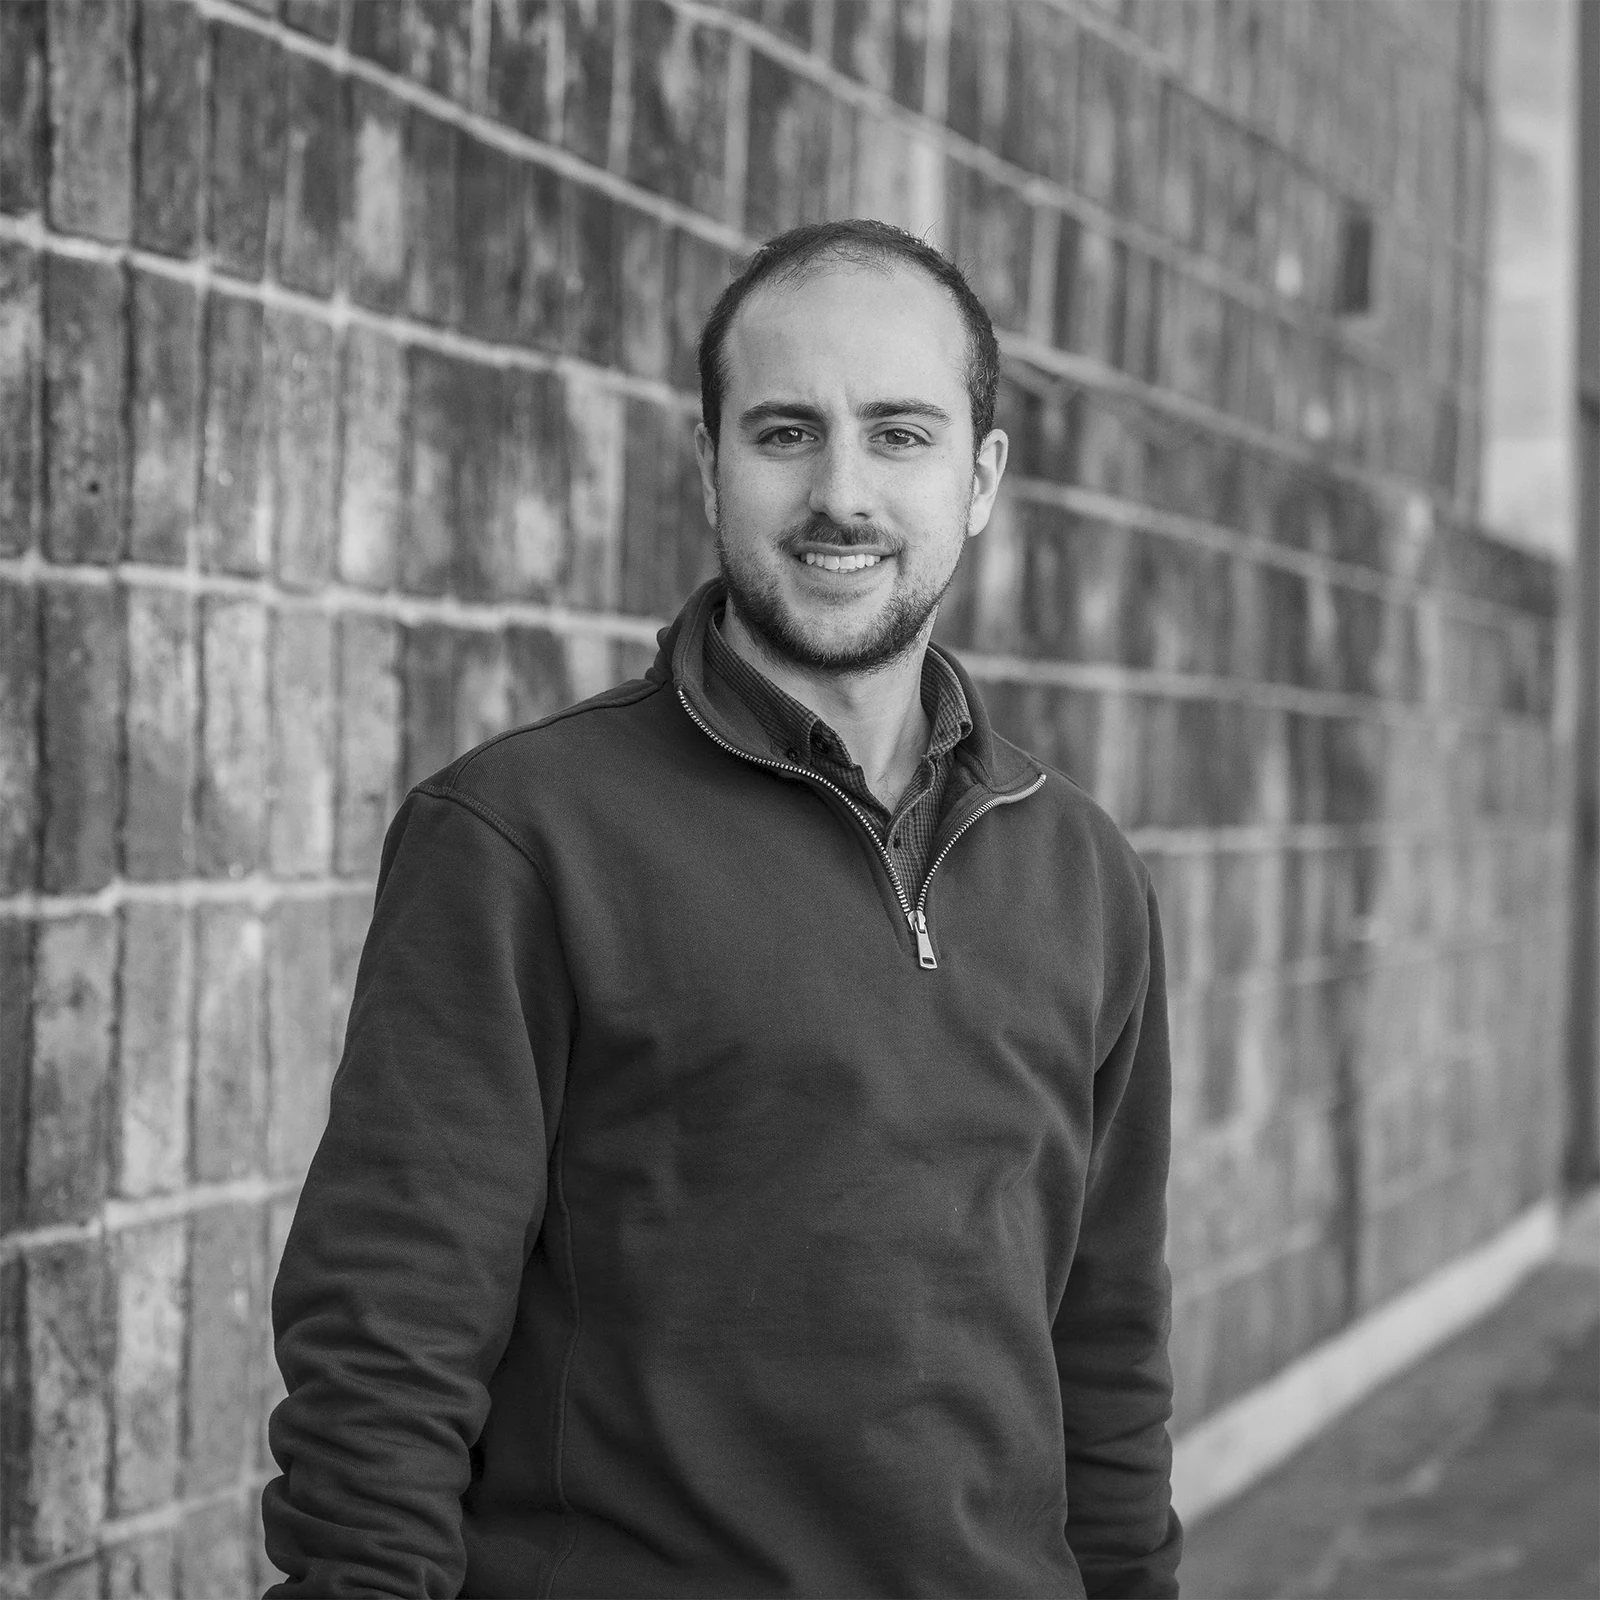
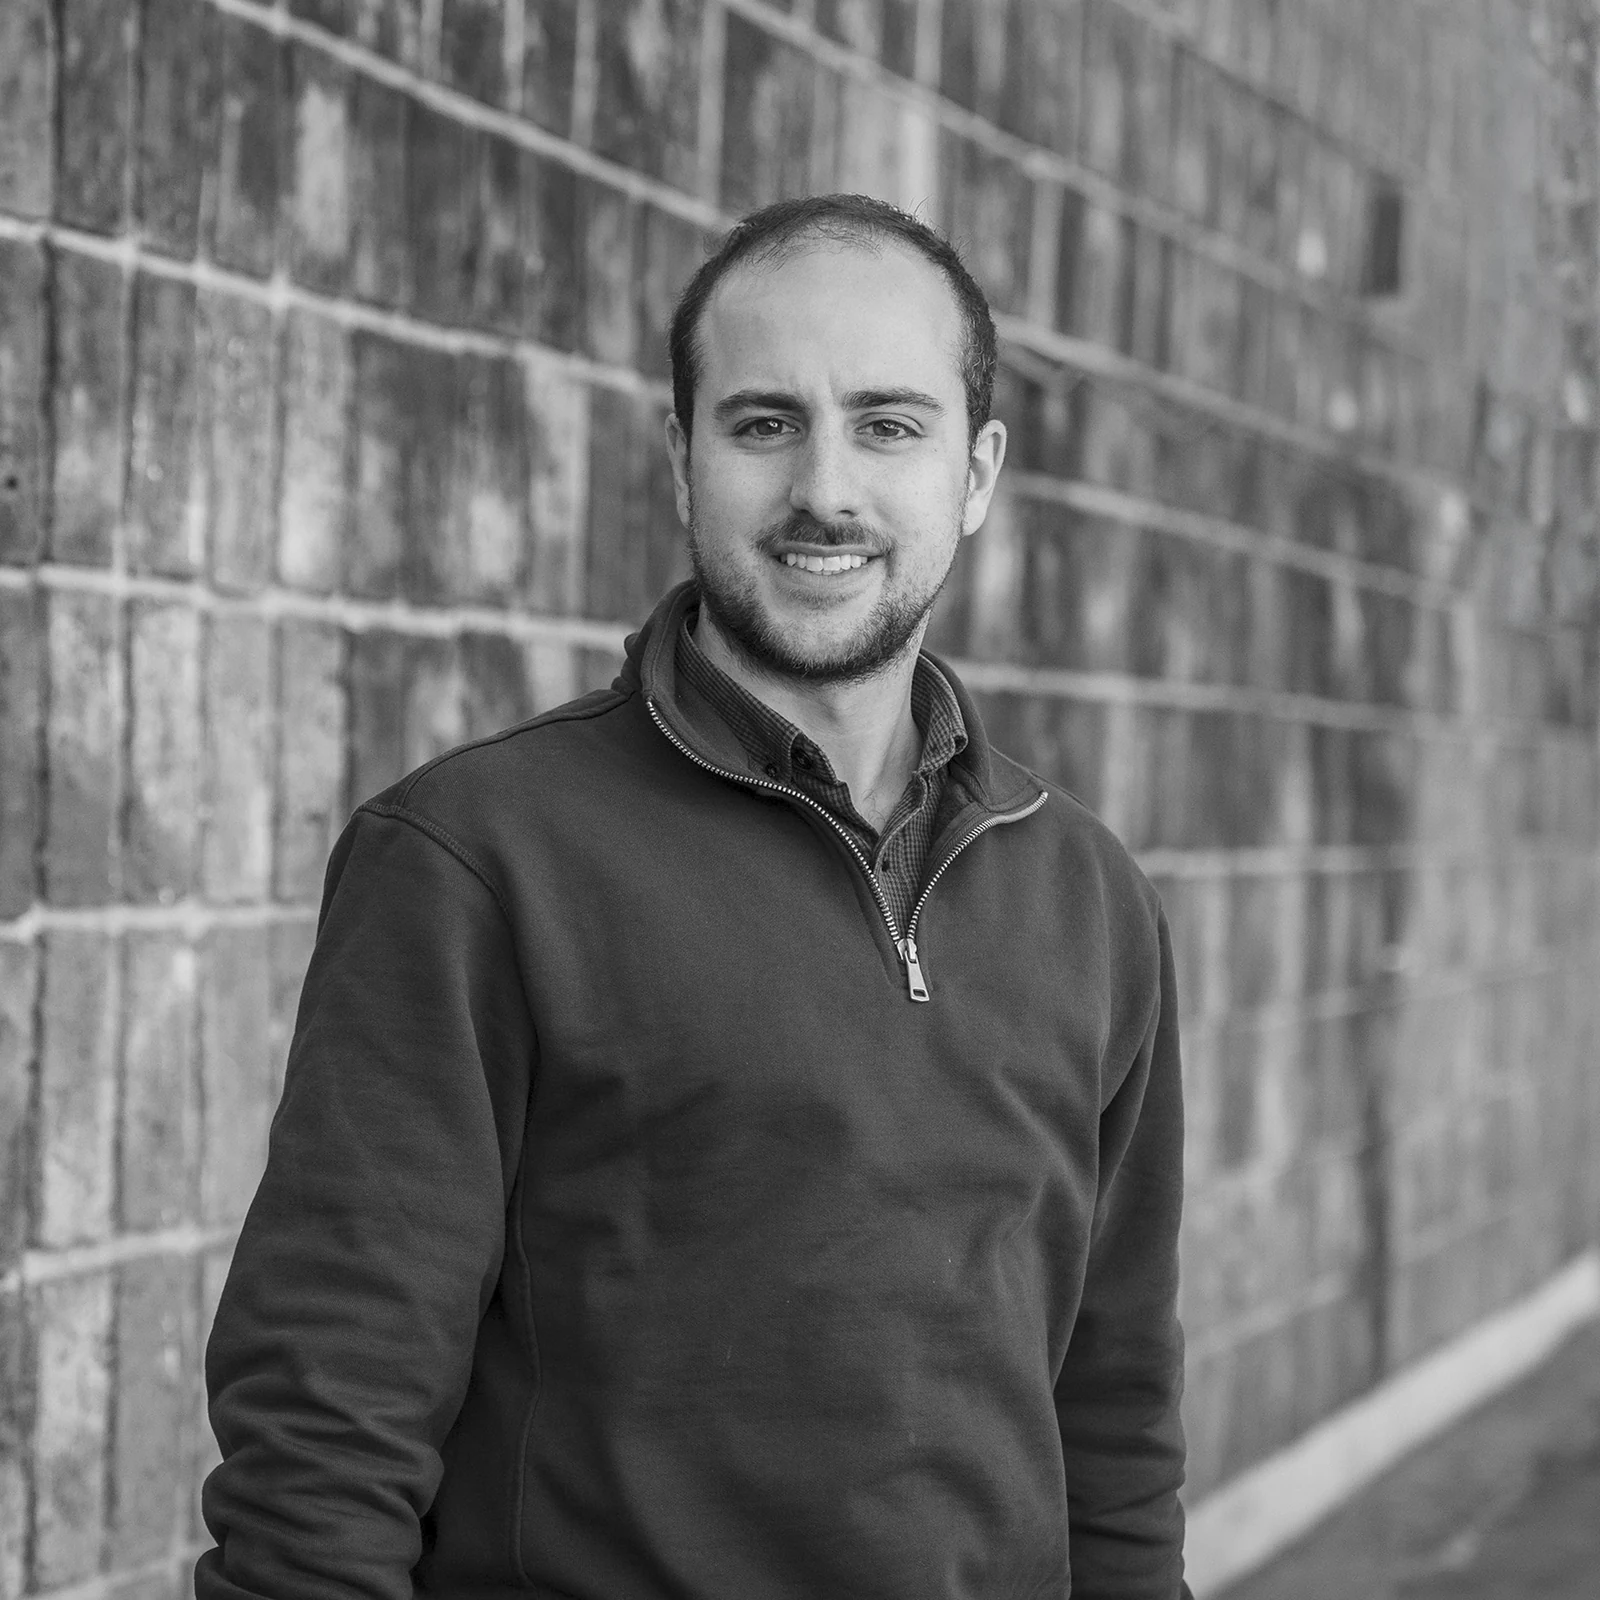
Actualización / Foto juan pablo

diff --git a/proyecto-colegio-maturana.html b/proyecto-colegio-maturana.html
@@ -9,7 +9,7 @@
   <title>Colegio Maturana — NUDO Arquitectura</title>
   <link rel="canonical" href="https://nudoarq.uy/proyecto-colegio-maturana.html" />
   <link rel="icon" type="image/png" href="/img/faivcon%20192x192.png" />
-  <link rel="stylesheet" href="styles.css?v=20260810-directores-49" />
+  <link rel="stylesheet" href="styles.css?v=20260810-juan-pablo-50" />
   <script type="application/ld+json">{
   "@context": "https://schema.org",
   "@type": "LocalBusiness",
@@ -45,7 +45,7 @@
   "priceRange": "$$",
   "description": "Estudio de arquitectura en Uruguay especializado en proyecto arquitectónico, documentación, dirección y gestión de obra."
 }</script>
-  <script type="module" src="src/main.js?v=20260810-directores-49"></script>
+  <script type="module" src="src/main.js?v=20260810-juan-pablo-50"></script>
 </head>
 <body data-page="project" data-project-slug="colegio-maturana">
   <div id="app">

diff --git a/proyecto-punta-espinillo.html b/proyecto-punta-espinillo.html
@@ -9,7 +9,7 @@
   <title>Punta Espinillo — NUDO Arquitectura</title>
   <link rel="canonical" href="https://nudoarq.uy/proyecto-punta-espinillo.html" />
   <link rel="icon" type="image/png" href="/img/faivcon%20192x192.png" />
-  <link rel="stylesheet" href="styles.css?v=20260810-directores-49" />
+  <link rel="stylesheet" href="styles.css?v=20260810-juan-pablo-50" />
   <script type="application/ld+json">{
   "@context": "https://schema.org",
   "@type": "LocalBusiness",
@@ -45,7 +45,7 @@
   "priceRange": "$$",
   "description": "Estudio de arquitectura en Uruguay especializado en proyecto arquitectónico, documentación, dirección y gestión de obra."
 }</script>
-  <script type="module" src="src/main.js?v=20260810-directores-49"></script>
+  <script type="module" src="src/main.js?v=20260810-juan-pablo-50"></script>
 </head>
 <body data-page="project" data-project-slug="punta-espinillo">
   <div id="app">

diff --git a/proyecto-reforma-nelson.html b/proyecto-reforma-nelson.html
@@ -9,7 +9,7 @@
   <title>Reforma Nelson — NUDO Arquitectura</title>
   <link rel="canonical" href="https://nudoarq.uy/proyecto-reforma-nelson.html" />
   <link rel="icon" type="image/png" href="/img/faivcon%20192x192.png" />
-  <link rel="stylesheet" href="styles.css?v=20260810-directores-49" />
+  <link rel="stylesheet" href="styles.css?v=20260810-juan-pablo-50" />
   <script type="application/ld+json">{
   "@context": "https://schema.org",
   "@type": "LocalBusiness",
@@ -45,7 +45,7 @@
   "priceRange": "$$",
   "description": "Estudio de arquitectura en Uruguay especializado en proyecto arquitectónico, documentación, dirección y gestión de obra."
 }</script>
-  <script type="module" src="src/main.js?v=20260810-directores-49"></script>
+  <script type="module" src="src/main.js?v=20260810-juan-pablo-50"></script>
 </head>
 <body data-page="project" data-project-slug="reforma-nelson">
   <div id="app">

diff --git a/proyecto-ingreso-berro.html b/proyecto-ingreso-berro.html
@@ -9,7 +9,7 @@
   <title>Ingreso Berro — NUDO Arquitectura</title>
   <link rel="canonical" href="https://nudoarq.uy/proyecto-ingreso-berro.html" />
   <link rel="icon" type="image/png" href="/img/faivcon%20192x192.png" />
-  <link rel="stylesheet" href="styles.css?v=20260810-directores-49" />
+  <link rel="stylesheet" href="styles.css?v=20260810-juan-pablo-50" />
   <script type="application/ld+json">{
   "@context": "https://schema.org",
   "@type": "LocalBusiness",
@@ -45,7 +45,7 @@
   "priceRange": "$$",
   "description": "Estudio de arquitectura en Uruguay especializado en proyecto arquitectónico, documentación, dirección y gestión de obra."
 }</script>
-  <script type="module" src="src/main.js?v=20260810-directores-49"></script>
+  <script type="module" src="src/main.js?v=20260810-juan-pablo-50"></script>
 </head>
 <body data-page="project" data-project-slug="ingreso-berro">
   <div id="app">

diff --git a/proyecto-classic-cars.html b/proyecto-classic-cars.html
@@ -9,7 +9,7 @@
   <title>Classic Cars — NUDO Arquitectura</title>
   <link rel="canonical" href="https://nudoarq.uy/proyecto-classic-cars.html" />
   <link rel="icon" type="image/png" href="/img/faivcon%20192x192.png" />
-  <link rel="stylesheet" href="styles.css?v=20260810-directores-49" />
+  <link rel="stylesheet" href="styles.css?v=20260810-juan-pablo-50" />
   <script type="application/ld+json">{
   "@context": "https://schema.org",
   "@type": "LocalBusiness",
@@ -45,7 +45,7 @@
   "priceRange": "$$",
   "description": "Estudio de arquitectura en Uruguay especializado en proyecto arquitectónico, documentación, dirección y gestión de obra."
 }</script>
-  <script type="module" src="src/main.js?v=20260810-directores-49"></script>
+  <script type="module" src="src/main.js?v=20260810-juan-pablo-50"></script>
 </head>
 <body data-page="project" data-project-slug="classic-cars">
   <div id="app">

diff --git a/proyecto-delta-riego.html b/proyecto-delta-riego.html
@@ -9,7 +9,7 @@
   <title>Delta Riego — NUDO Arquitectura</title>
   <link rel="canonical" href="https://nudoarq.uy/proyecto-delta-riego.html" />
   <link rel="icon" type="image/png" href="/img/faivcon%20192x192.png" />
-  <link rel="stylesheet" href="styles.css?v=20260810-directores-49" />
+  <link rel="stylesheet" href="styles.css?v=20260810-juan-pablo-50" />
   <script type="application/ld+json">{
   "@context": "https://schema.org",
   "@type": "LocalBusiness",
@@ -45,7 +45,7 @@
   "priceRange": "$$",
   "description": "Estudio de arquitectura en Uruguay especializado en proyecto arquitectónico, documentación, dirección y gestión de obra."
 }</script>
-  <script type="module" src="src/main.js?v=20260810-directores-49"></script>
+  <script type="module" src="src/main.js?v=20260810-juan-pablo-50"></script>
 </head>
 <body data-page="project" data-project-slug="delta-riego">
   <div id="app">

diff --git a/proyecto-alfalider.html b/proyecto-alfalider.html
@@ -9,7 +9,7 @@
   <title>Alfalider — NUDO Arquitectura</title>
   <link rel="canonical" href="https://nudoarq.uy/proyecto-alfalider.html" />
   <link rel="icon" type="image/png" href="/img/faivcon%20192x192.png" />
-  <link rel="stylesheet" href="styles.css?v=20260810-directores-49" />
+  <link rel="stylesheet" href="styles.css?v=20260810-juan-pablo-50" />
   <script type="application/ld+json">{
   "@context": "https://schema.org",
   "@type": "LocalBusiness",
@@ -45,7 +45,7 @@
   "priceRange": "$$",
   "description": "Estudio de arquitectura en Uruguay especializado en proyecto arquitectónico, documentación, dirección y gestión de obra."
 }</script>
-  <script type="module" src="src/main.js?v=20260810-directores-49"></script>
+  <script type="module" src="src/main.js?v=20260810-juan-pablo-50"></script>
 </head>
 <body data-page="project" data-project-slug="alfalider">
   <div id="app">

diff --git a/proyecto-araruama.html b/proyecto-araruama.html
@@ -9,7 +9,7 @@
   <title>Araruama — NUDO Arquitectura</title>
   <link rel="canonical" href="https://nudoarq.uy/proyecto-araruama.html" />
   <link rel="icon" type="image/png" href="/img/faivcon%20192x192.png" />
-  <link rel="stylesheet" href="styles.css?v=20260810-directores-49" />
+  <link rel="stylesheet" href="styles.css?v=20260810-juan-pablo-50" />
   <script type="application/ld+json">{
   "@context": "https://schema.org",
   "@type": "LocalBusiness",
@@ -45,7 +45,7 @@
   "priceRange": "$$",
   "description": "Estudio de arquitectura en Uruguay especializado en proyecto arquitectónico, documentación, dirección y gestión de obra."
 }</script>
-  <script type="module" src="src/main.js?v=20260810-directores-49"></script>
+  <script type="module" src="src/main.js?v=20260810-juan-pablo-50"></script>
 </head>
 <body data-page="project" data-project-slug="araruama">
   <div id="app">

diff --git a/proyecto-matisse.html b/proyecto-matisse.html
@@ -9,7 +9,7 @@
   <title>Matisse — NUDO Arquitectura</title>
   <link rel="canonical" href="https://nudoarq.uy/proyecto-matisse.html" />
   <link rel="icon" type="image/png" href="/img/faivcon%20192x192.png" />
-  <link rel="stylesheet" href="styles.css?v=20260810-directores-49" />
+  <link rel="stylesheet" href="styles.css?v=20260810-juan-pablo-50" />
   <script type="application/ld+json">{
   "@context": "https://schema.org",
   "@type": "LocalBusiness",
@@ -45,7 +45,7 @@
   "priceRange": "$$",
   "description": "Estudio de arquitectura en Uruguay especializado en proyecto arquitectónico, documentación, dirección y gestión de obra."
 }</script>
-  <script type="module" src="src/main.js?v=20260810-directores-49"></script>
+  <script type="module" src="src/main.js?v=20260810-juan-pablo-50"></script>
 </head>
 <body data-page="project" data-project-slug="matisse">
   <div id="app">

diff --git a/proyectos.html b/proyectos.html
@@ -9,7 +9,7 @@
   <title>Proyectos — NUDO Arquitectura</title>
   <link rel="canonical" href="https://nudoarq.uy/proyectos.html" />
   <link rel="icon" type="image/png" href="/img/faivcon%20192x192.png" />
-  <link rel="stylesheet" href="styles.css?v=20260810-directores-49" />
+  <link rel="stylesheet" href="styles.css?v=20260810-juan-pablo-50" />
   <script type="application/ld+json">{
   "@context": "https://schema.org",
   "@type": "LocalBusiness",
@@ -45,7 +45,7 @@
   "priceRange": "$$",
   "description": "Estudio de arquitectura en Uruguay especializado en proyecto arquitectónico, documentación, dirección y gestión de obra."
 }</script>
-  <script type="module" src="src/main.js?v=20260810-directores-49"></script>
+  <script type="module" src="src/main.js?v=20260810-juan-pablo-50"></script>
 </head>
 <body data-page="projects">
   <div id="app">

diff --git a/index.html b/index.html
@@ -9,7 +9,7 @@
   <title>NUDO Arquitectura</title>
   <link rel="canonical" href="https://nudoarq.uy/" />
   <link rel="icon" type="image/png" href="/img/faivcon%20192x192.png" />
-  <link rel="stylesheet" href="styles.css?v=20260810-directores-49" />
+  <link rel="stylesheet" href="styles.css?v=20260810-juan-pablo-50" />
   <script type="application/ld+json">{
   "@context": "https://schema.org",
   "@type": "LocalBusiness",
@@ -45,7 +45,7 @@
   "priceRange": "$$",
   "description": "Estudio de arquitectura en Uruguay especializado en proyecto arquitectónico, documentación, dirección y gestión de obra."
 }</script>
-  <script type="module" src="src/main.js?v=20260810-directores-49"></script>
+  <script type="module" src="src/main.js?v=20260810-juan-pablo-50"></script>
 </head>
 <body data-page="home">
   <div id="app">

diff --git a/404.html b/404.html
@@ -9,9 +9,9 @@
   <title>NUDO Arquitectura</title>
   <link rel="canonical" href="https://nudoarq.uy/" />
   <link rel="icon" type="image/png" href="/img/faivcon%20192x192.png" />
-  <link rel="stylesheet" href="styles.css?v=20260810-directores-49" />
+  <link rel="stylesheet" href="styles.css?v=20260810-juan-pablo-50" />
   
-  <script type="module" src="src/main.js?v=20260810-directores-49"></script>
+  <script type="module" src="src/main.js?v=20260810-juan-pablo-50"></script>
 </head>
 <body>
   <div id="app"><main><section class="archive-hero section-light"><div class="section-shell"><h1>Página no encontrada</h1><p class="archive-hero__lead">Volvé al inicio o al archivo de proyectos.</p></div></section></main></div>
